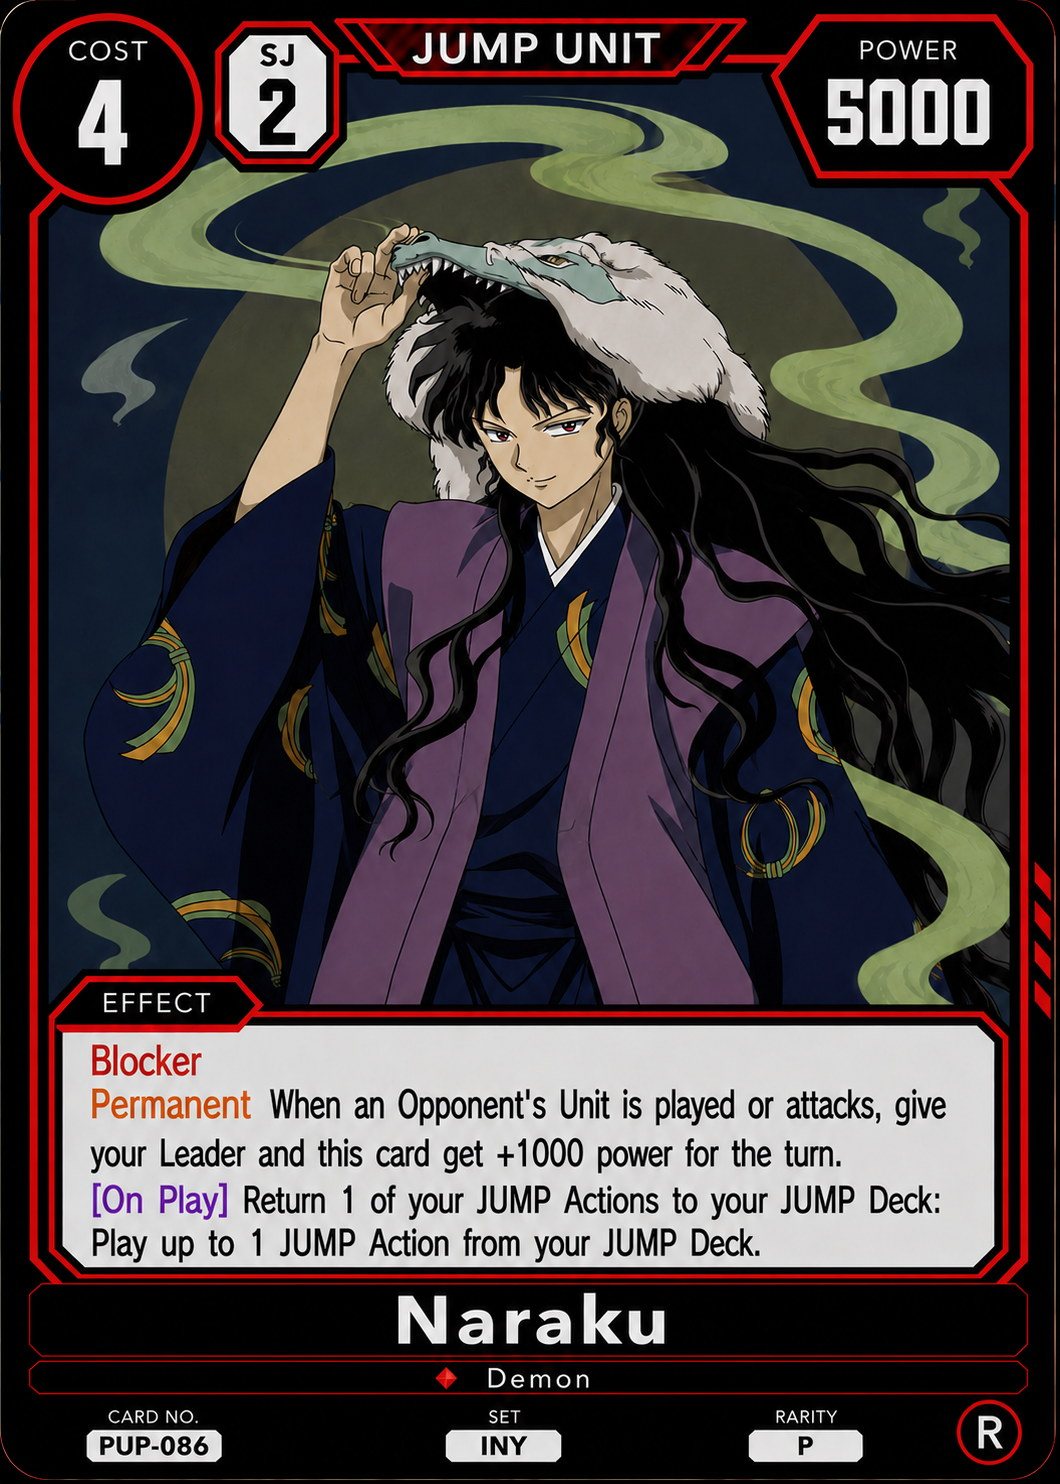
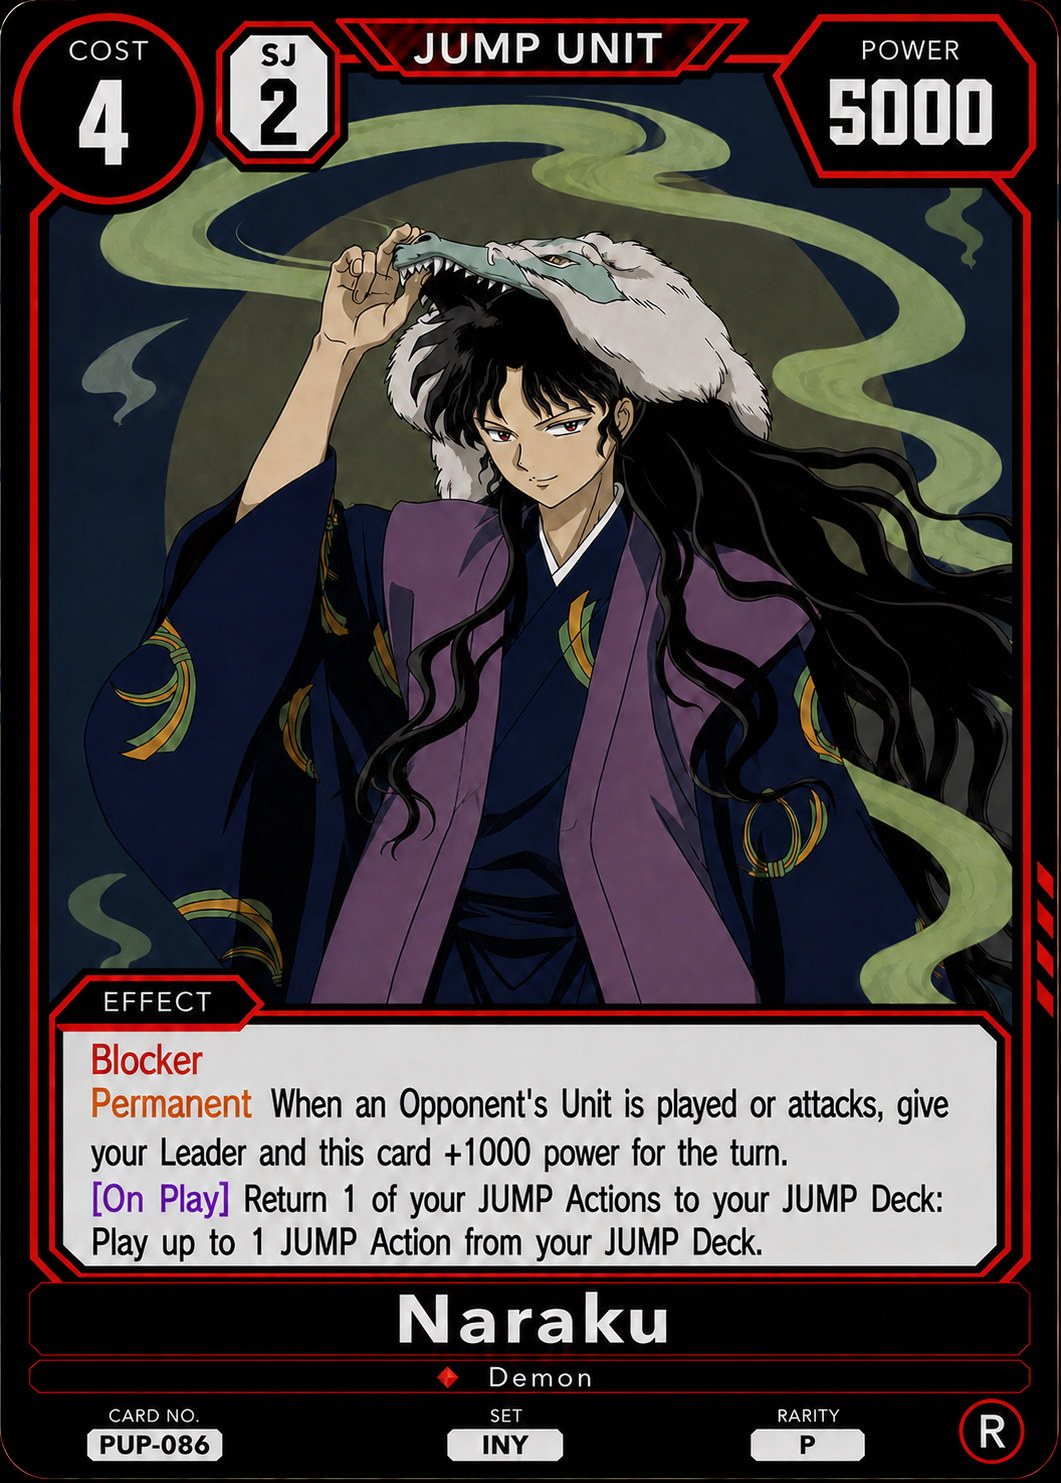
Revise PUP-086 image and text

diff --git a/card-text-data.js b/card-text-data.js
@@ -22437,8 +22437,8 @@ window.SJTCG_CARD_TEXT = {
     "set": "INY",
     "rarity": "P",
     "bottom_right_circle": "R",
-    "effect": "Blocker\nPermanent When an Opponent's Unit is played or attacks, give your Leader and this card +1000 power for the turn.\n[On Play] Return 1 of your JUMP Actions to your JUMP Deck; Play up to 1 JUMP Action from your JUMP Deck.",
-    "effect_html": "<span class=\"kw kw-red\" title=\"Blocker\">Blocker</span><br><span class=\"kw kw-orange\" title=\"Permanent\">Permanent</span> When an Opponent&#x27;s Unit is played or attacks, give your Leader and this card +1000 power for the turn.<br><span class=\"kw kw-purple\" title=\"Timing window\">[On Play]</span> Return 1 of your JUMP Actions to your JUMP Deck; Play up to 1 JUMP Action from your JUMP Deck.",
+    "effect": "Blocker\nPermanent When an Opponent's Unit is played or attacks, give your Leader and this card +1000 power for the turn.\n[On Play] Return 1 of your JUMP Actions to your JUMP Deck: Play up to 1 JUMP Action from your JUMP Deck.",
+    "effect_html": "<span class=\"kw kw-red\" title=\"Blocker\">Blocker</span><br><span class=\"kw kw-orange\" title=\"Permanent\">Permanent</span> When an Opponent&#x27;s Unit is played or attacks, give your Leader and this card +1000 power for the turn.<br><span class=\"kw kw-purple\" title=\"Timing window\">[On Play]</span> Return 1 of your JUMP Actions to your JUMP Deck: Play up to 1 JUMP Action from your JUMP Deck.",
     "notes": "",
     "transcription_status": "verified",
     "release": "PUP",

diff --git a/index.html b/index.html
@@ -202,8 +202,8 @@
     </article>
   </div>
 
-  <script src="cards-data.js?v=f9755b35d8b8"></script>
-  <script src="card-text-data.js?v=17d1f9d689f9"></script>
+  <script src="cards-data.js?v=7d48a0c4bf7a"></script>
+  <script src="card-text-data.js?v=21dd5e3ab08b"></script>
   <script src="app.js?v=478c9c2d7b66"></script>
 </body>
 </html>

diff --git a/cards-data.js b/cards-data.js
@@ -11751,7 +11751,7 @@ window.SJTCG_CARD_DATA = [
     "cardType": "Main Deck",
     "deckLimit": 1,
     "orientation": "Portrait",
-    "imageVersion": "4b1b02effb07"
+    "imageVersion": "b793ee945865"
   },
   {
     "number": "PUP-087",
